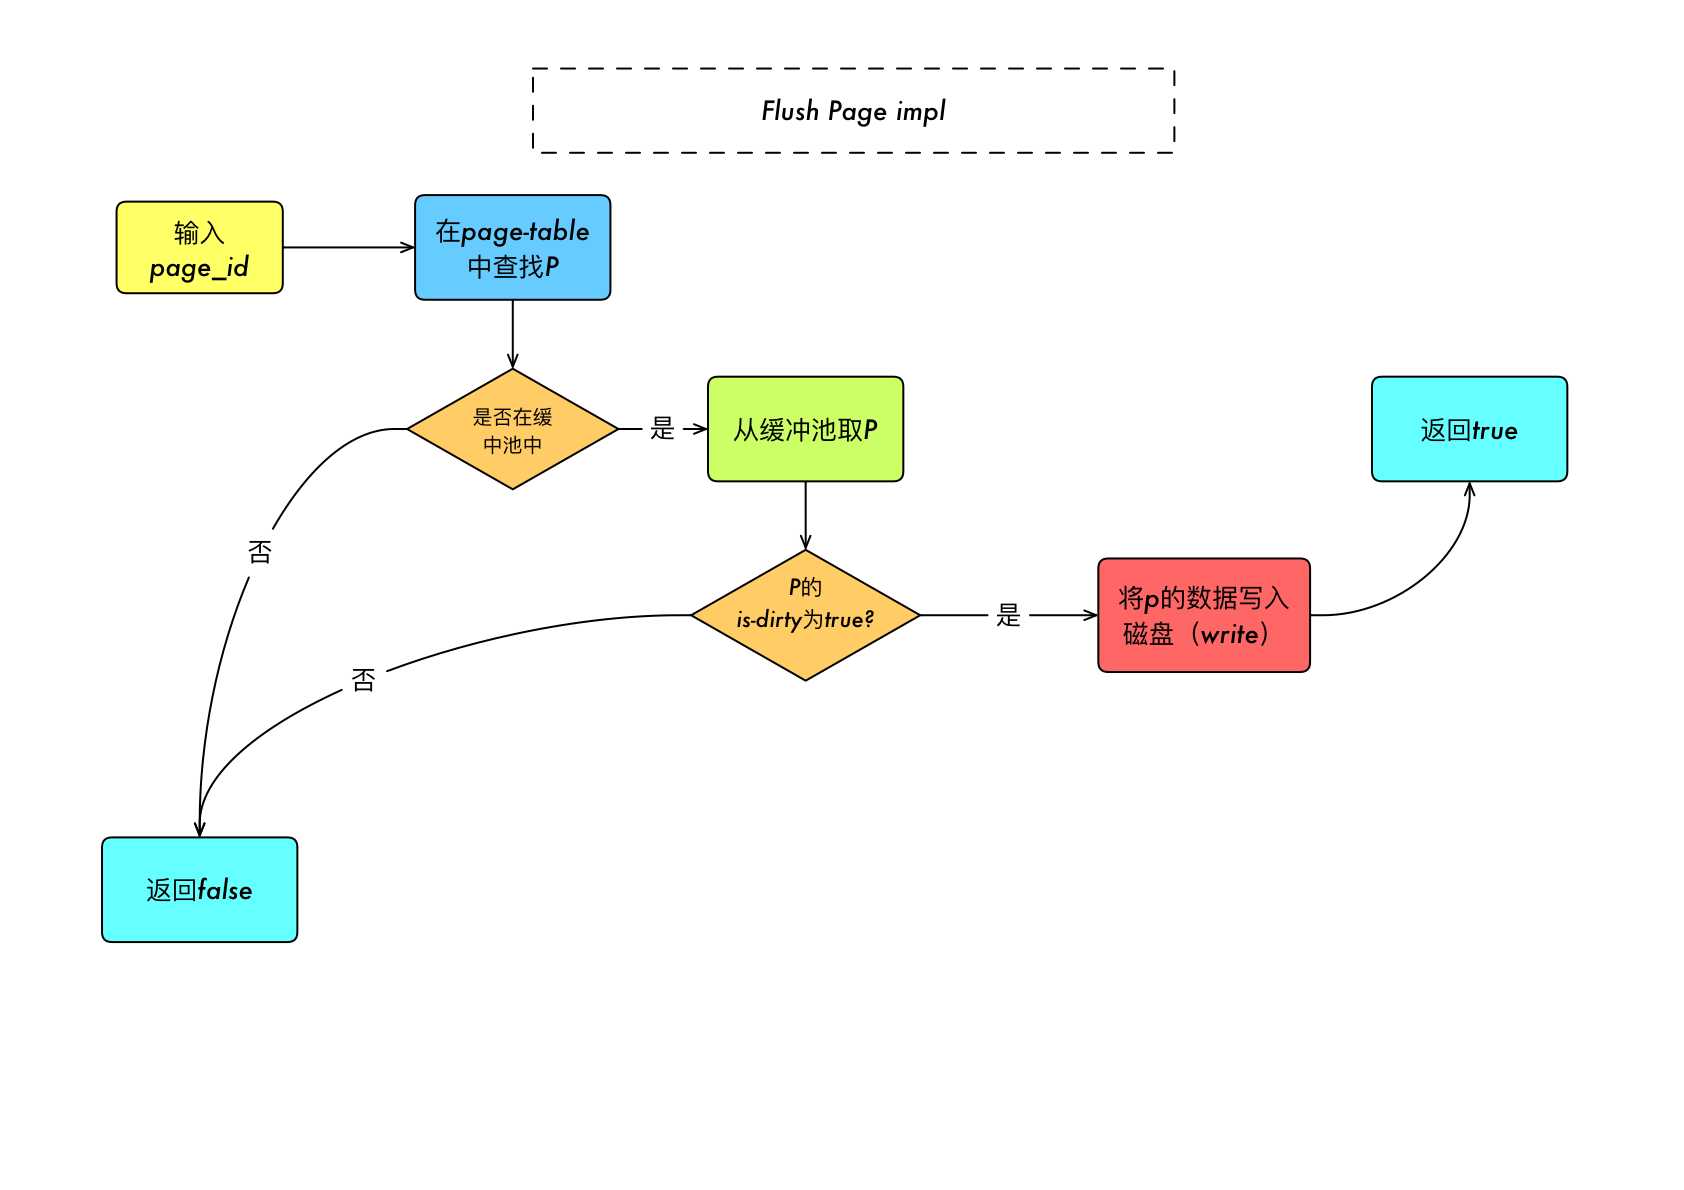
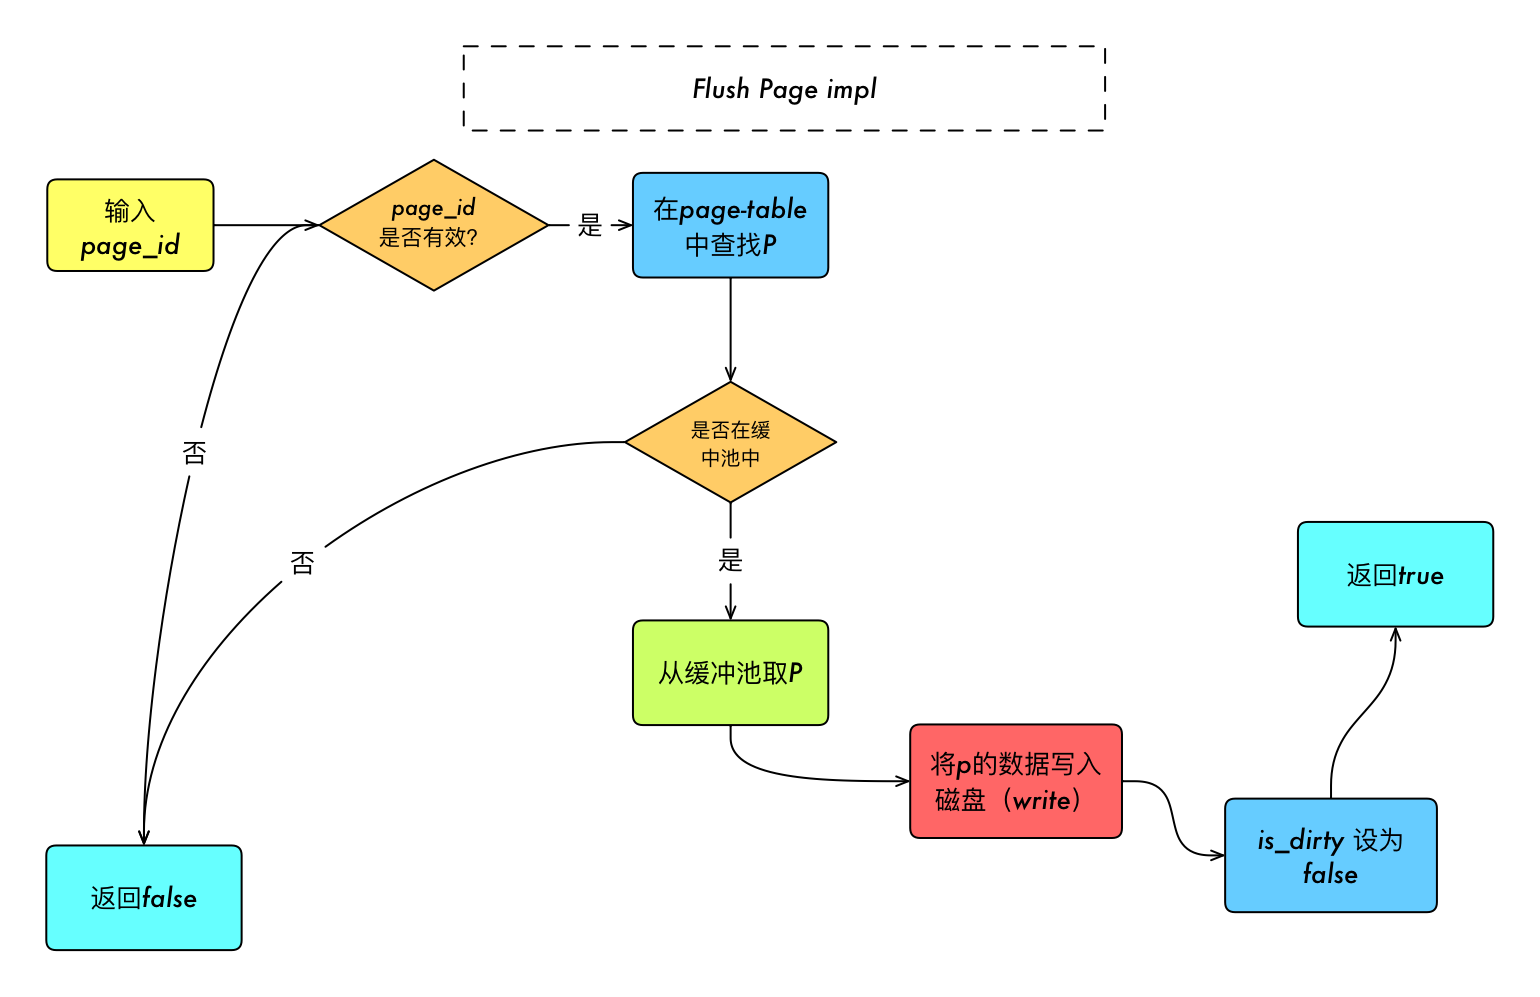
2021.10.10 增加小组成员实现和总结，修改部分文字和图片

diff --git a/Week4-5-Buffer Pool/homework/Group2/bufferpool项目实现情况.md b/Week4-5-Buffer Pool/homework/Group2/bufferpool项目实现情况.md
@@ -1,4 +1,4 @@
-# Buffer Pool代码运行报告
+# Buffer Pool项目实现情况
 
 2021.10.8
 
@@ -44,10 +44,7 @@ LRUreplacer：
 
 1. 内存错误
 
-  ```
-==13391==ERROR: AddressSanitizer: SEGV on unknown address 0x000000000000
-```
-解决：此报错一般是指针引用出现了问题。这里将判断指针为空的方式从```if(！point)```改为```if(point!=nullptr)```。
+  解决：此报错一般是指针引用出现了问题。这里将判断指针为空的方式从```if(！point)```改为```if(point!=nullptr)```。
 
 2. 忘记将被替换的页面从页表中删除。使用如下语句删除旧页和增加新页：
 
@@ -64,16 +61,19 @@ Page *BufferPoolManager::FetchPageImpl(page_id_t page_id) {
   ...
 }
 ```
+  目前仅在函数层面上加锁，后续可进一步细化上锁的粒度。
 
-4. 误在FetchPage、FlushAllPages函数中调用FlushPage，造成错误。注意加锁后的函数不能相互调用彼此，不然会出现死锁情况。
+##### 网上测试遇到的细节问题
 
-5. 忽略了INVALID_PAGE_ID：在flushPage实现前应该检查page_id是否无效；在deletePage时应将被删除的页的page_id设置成无效。
+1. 误在FetchPage、FlushAllPages函数中调用FlushPage，造成错误。注意加锁后的函数不能相互调用彼此，不然会出现死锁情况。
 
-6. 在deletePage时也要调用replacer->Pin()，将页面从替换帧列表中清除。
+2. 忽略了INVALID_PAGE_ID：在flushPage实现前应该检查page_id是否无效；在deletePage时应将被删除的页的page_id设置成无效。
+
+3. 在deletePage时也要调用replacer->Pin()，将页面从替换帧列表中清除。
 
 ### 总结
 
-通过动手编程实践，我对缓存池的原理有了较为深入了解，C++的编程能力也得到了提升。小组同学都很厉害（至少比我这个菜鸟强），通过和小组同学的交流讨论、不断请教，我遇到的许多问题都及时得到了解决，从他们身上也学到很多学习方法和编程、调试技巧。总体来说项目收获非常大，很有成就感。
+通过动手编程实践，我对缓存池的原理有了较为深入了解，C++的编程能力也得到了提升。小组同学都很厉害（至少比我这个菜鸟强），通过和小组同学的交流讨论、不断请教，我遇到的许多问题都及时得到了解决，从他们身上也学到很多学习方法和编程、调试技巧。项目收获非常大，很有成就感，为后续的任务打下基础。
 
 ---
 
@@ -117,3 +117,46 @@ LruReplacer无法通过测试。
 ### 总结
 
 本周的学习过程中，结合BufferPool的项目，学习了很多数据库的基本知识，并且在此基础上自己去理解和实现，有非常大的收获。在写项目的过程中，学习了很多C++的知识，也极大提高了自己的编程能力，为之后的项目打下了基础。
+
+---
+
+## 3. 侯磊
+
+### 实现及测试
+##### 本地测试：
+
+![image-20211009122006525](hl_images/image-20211009122006525.png)
+
+![image-20211009122259387](hl_images/image-20211009122259387.png)
+
+##### 在线测试：
+
+![image-20211009122419392](hl_images/image-20211009122419392.png)
+
+![image-20211009122924043](hl_images/image-20211009122924043.png)  
+
+### 过程中遇到的问题及解决：
+
+UnpinPageImpl()无法通过测试。
+
+错误原因：在实现FetchPage时有一个位置的Unpin(*)，参数错误的使用了page_id而不是frame_Id，但是测试过程中没有在这里报错，而是在另一个函数中。
+
+解决：在本地Test中额外写了测试用例定位到错误。
+
+### 总结
+
+通过学习和实践完成了BufferPool的项目，学到了有关缓冲池的基本知识，使自己的代码能力有了一定提升。在实践项目的过程中，使用GoogleTest进行单元测试，了解并学会了其基本功能；同时初次学会使用mutex在编程中实现并发安全，这些都让我有很大的收获，同时为后续的任务打下基础。
+
+---
+
+## 4. 王昊龙
+
+### 过程中遇到的问题及解决：
+
+1. 在实现FetchPageImpl与NewPageImpl时，有相同的的取页过程，将其整合为一个函数使得代码更加简洁
+
+2. 在实现Unpin中，得判断链表中的元素个数是否超过capacity，如果超过，得将最后的元素删减一直到可以再容纳一个Unpin的页
+
+3. 在实现manager功能时基本都需要判断是否存在该page
+
+4. 在实现FlushPageImpl中还得判断page中是否有物理页（if(page_id == INVALID_PAGE_ID)）

diff --git a/Week4-5-Buffer Pool/homework/Group2/bufferpool基础知识和项目流程.md b/Week4-5-Buffer Pool/homework/Group2/bufferpool基础知识和项目流程.md
@@ -9,7 +9,11 @@ by Group2
 
 缓冲池（Buffer Pool）是DBMS分配的一片内存区域，用于存储从磁盘中获取的页面，以提高访问数据的速度。负责缓冲池空间分配的子系统称为缓冲池管理器。
 
-这片内存空间被组织为一个数组，其中每个数组项被称为一个帧（frame），一个帧正好能放置一个页面（page）。当一个页面被请求时，DBMS首先搜索缓冲池，如果在缓冲池中没有找到该页，就从磁盘获取该页的副本，并放置到缓冲池的一个帧中。缓冲池的组织结构如下图所示。
+这片内存空间被组织为一个数组，其中每个数组项被称为一个帧（frame），一个帧正好能放置一个页面（page）。
+
+当一个页面被请求时，DBMS首先搜索缓冲池，如果在缓冲池中没有找到该页，就从磁盘获取该页的副本，并放置到缓冲池的一个帧中。
+
+缓冲池的组织结构如下图所示。
 
 ![](./images/bufferpool.png)
 
@@ -17,13 +21,14 @@ by Group2
 
 在本次实验中，缓冲池管理器的内部数据结构如下：
 
-+ 缓冲池（pages）：一个数组，大小和Page相同，长度和pool_size相同，以frame_id作为索引，存放页面。
++ **缓冲池（pages）**：一个数组，大小和Page相同，长度和pool_size相同，以frame_id作为索引，存放页面。
 
-+ 页表（page table）：一个哈希表，将page_id映射到frame_id，对应缓冲池中一个帧的位置。
++ **页表（page table）**：一个哈希表，将page_id映射到frame_id，对应缓冲池中一个帧的位置。
 
-+ 空闲列表（free list）：一个frame_id的链表，存储缓冲池的空闲frame。如果要从磁盘中加载新的页，将优先从free list中选取空位。
++ **空闲列表（free list）**：一个frame_id的链表，存储缓冲池的空闲frame。如果要从磁盘中加载新的页，将优先从free list中选取空位。
 
-+ 页面（Page）：一个数据结构，包括一下组成：
++ **页面（Page）**：一个数据结构，包括以下组成：
+![](./images/pagestructure.png)
  + page_id：页面序号，和具体存储位置无关。
 
  + pin_count：一个引用计数，统计当前有多少进程正在使用该页面。
@@ -32,12 +37,28 @@ by Group2
 
   + is_dirty：一个标志位，表示页面从磁盘中载入到缓冲池后，是否有进程对其做了修改。
 
+  + data：页面数据。
+
 缓冲池管理器还包括一个replacer，用来实现替换策略。实验中用到的IRUreplacer的内部结构如下：
 
 + 替换帧列表（frame_list）：一个frame_id的链表，用于存储缓冲池中已存储页面并可供替换的帧。pin_count>0的帧不在其中，只有pin_count=0的帧才可能在里面。
 
 
 ## 流程
+
+主要需要实现两个部分：LRU置换和Buffer Pool Manager。
+
+### LRU置换实现
+
+LRU：最近最少使用置换算法，即选择最近最久未使用的页面予以淘汰。
+
+实现：创建一个队列，依次把最近使用过的页面加入队头，每次需要置换时从队尾取出。使用list存储即可，为了减少复杂度增加一个Map。
+
++ Unpin()：从buffer pool中取消 在lru_replacer中添加一个元素 (Pin()相反)
+
++ Victim()：取出队尾节点，并在map中删除它的映射关系。
+
+为了后面buffer pool manager做准备。
 
 ### buffer_pool_manager:
 

diff --git a/Week4-5-Buffer Pool/homework/Group2/bufferpool环境搭建和代码运行.md b/Week4-5-Buffer Pool/homework/Group2/bufferpool环境搭建和代码运行.md
@@ -5,6 +5,8 @@
 by Group2
 陈思芹，郑前祎，侯磊，王昊龙
 
+---
+
 ## 1. 环境搭建
 
 ### 回退版本，从去年的项目建立新分支
@@ -127,7 +129,7 @@ $ make check-clang-tidy
 
 进入课程15-445/645，点击submit提交。
 
-![](./images_csq/submit.png)
+![](./images/submit.png)
 
 只需要包含以下四个文件，目录上必须保证一致:
 
